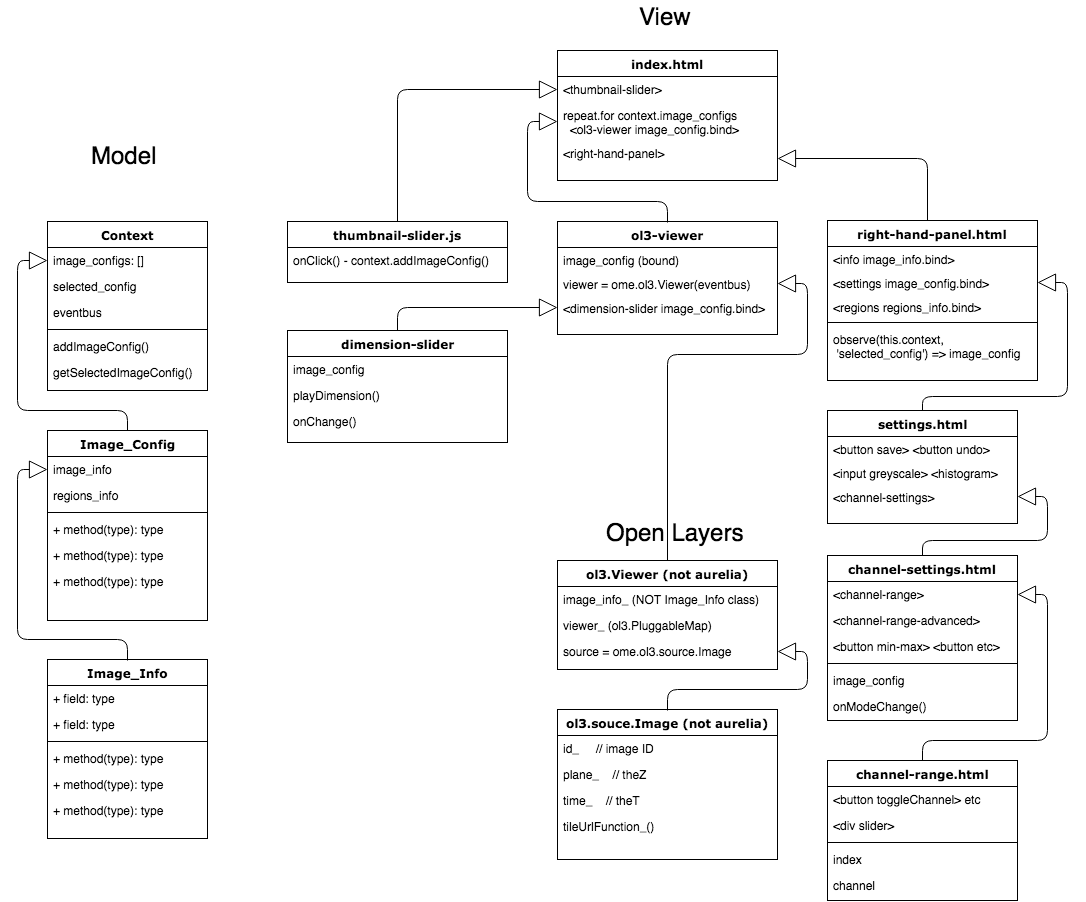
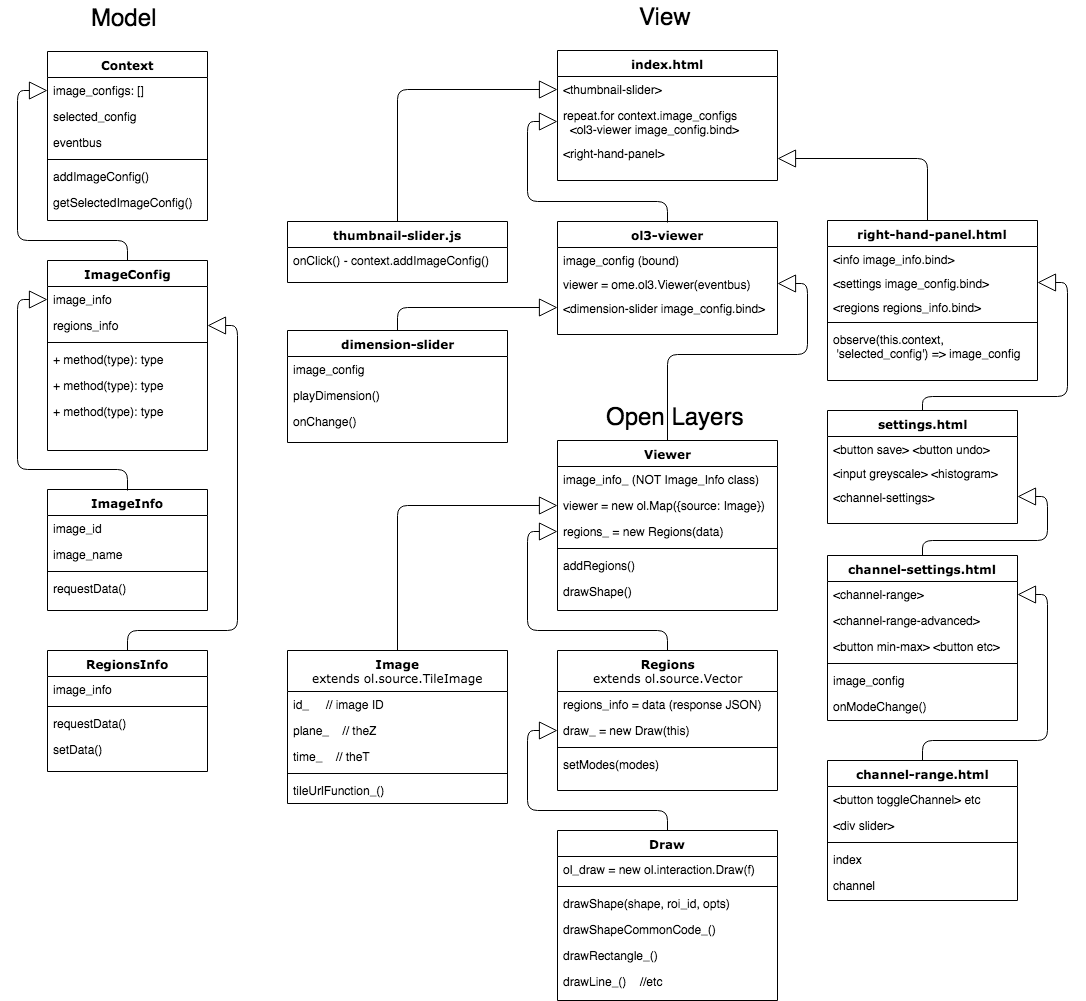
Update docs with more OpenLayers viewer details

diff --git a/docs/README.md b/docs/README.md
@@ -93,14 +93,122 @@ being the entry point.
 The Viewer class gets passed the ``context.eventbus`` but not the
 ``context`` or ``image_info`` like other Aurelia classes.
 
-    this.viewer = new Viewer(
+    this.viewer_ = new Viewer(
         this.image_config.image_info.image_id, {
             eventbus : this.context.eventbus,
             server : this.context.server,
             data: this.image_config.image_info.tmp_data,
-            initParams :  initParams,
+            initParams : initParams,
             container: this.container
-         });
+        });
 
 The ``Viewer.image_info_`` is actually the ``image_info.tmp_data`` JSON response object,
 not the ``Image_Info`` class.
+
+
+When the Viewer is created, we create the OpenLayers Map and other components
+from the image_info_ data:
+
+    import OlMap from 'ol/Map';
+
+    // within bootstrapOpenLayers(), called by constructor
+
+    // use image_info_ data to get IDs, dimensions etc. E.g.
+    dims = this.image_info_['size']
+
+    var source = new OmeroImage({
+        image: this.id_,
+        width: dims['width'],
+        height: dims['height'],
+        // other parameters omitted
+    });
+
+    this.viewer_ = new OlMap({
+        controls: controls,                 // e.g. [ScaleBar, Zoom]
+        interactions: interactions,         // e.g. [DragPan, MouseWheelZoom]
+        layers: [new Tile({source: source})],
+        target: this.container_,
+        view: view                          // ol.View
+    });
+
+The ``OmeroImage`` extends ``OpenLayers TileImage`` with a custom
+``tileUrlFunction`` that uses the image data as well as the current rendering
+settings to provide tile URLs.
+
+
+Regions (ROIs)
+==============
+
+When we select the ROIs tab in the ``right-hand-panel`` component, this calls
+``this.image_config.regions_info.requestData()`` which makes the AJAX call to
+load ROIs. When ready, the ``ol3-viewer`` calls ``this.viewer.addRegions(data)``.
+This adds a Vector layer to the Openlayers Map:
+
+    // Viewer.js
+
+    import Vector from 'ol/layer/Vector'
+    import Regions from './source/Regions';    // extends 'ol/source/Vector'
+
+    addRegions(data) {
+
+        // Regions constructor creates ol.Features from JSON data
+        this.regions_ = new Regions(this, {data: data});
+        this.viewer_.addLayer(new Vector({source : this.regions_}));
+
+        // enable roi selection by default, as well as modify and translate
+        this.regions_.setModes([SELECT, MODIFY, TRANSLATE]);
+    }
+
+When a drawing tool such as Rectangle is selected, the ol3-viewer calls
+``this.viewer.drawShape(params)``:
+
+    // Viewer.js
+
+    drawShape(shape, roi_id, opts) {
+        this.setRegionsModes([DRAW]);
+        this.regions_.draw_.drawShape(shape, roi_id, opts);
+    }
+
+This first calls ``source/Regions.setModes(DRAW)`` to create a new
+``viewer/interaction/Draw``...
+
+    // source/Regions.js
+
+    setModes(modes) {
+        // if DRAW in modes
+        this.draw_ = new Draw(oldModes, this);
+    }
+
+The viewer/interaction/Draw calls wraps an OpenLayers Draw instance instead of
+extending it. A new ``OpenLayers Draw`` instance is created with a function that
+generates e.g a new viewer/geom/Rectangle:
+
+    // interaction/Draw.js
+
+    // called by Viewer.drawShape() above
+    drawShape(shape, roi_id, opts)
+
+    // which calls e.g.
+    drawRectangle_()
+
+    // which calls
+    drawShapeCommonCode_(ol_shape, shape_type, geometryFunction) {
+
+        // where geometryFunction returns e.g. new Rectangle(x, y, w, h);
+
+        this.ol_draw_ = new OlDraw({
+            geometryFunction: geometryFunction
+        }
+
+        this.regions_.viewer_.viewer_.addInteraction(this.ol_draw_);
+        this.ol_draw_.on(DrawEventType.DRAWEND, onDrawEndAction, this);
+    }
+
+The ``onDrawEndAction()`` is fired when a shape is completed and calls:
+
+    // interaction/Draw.js
+
+    self.regions_.addFeature(event.feature);
+
+    // sends notification via
+    self.regions_.viewer_.eventbus_
